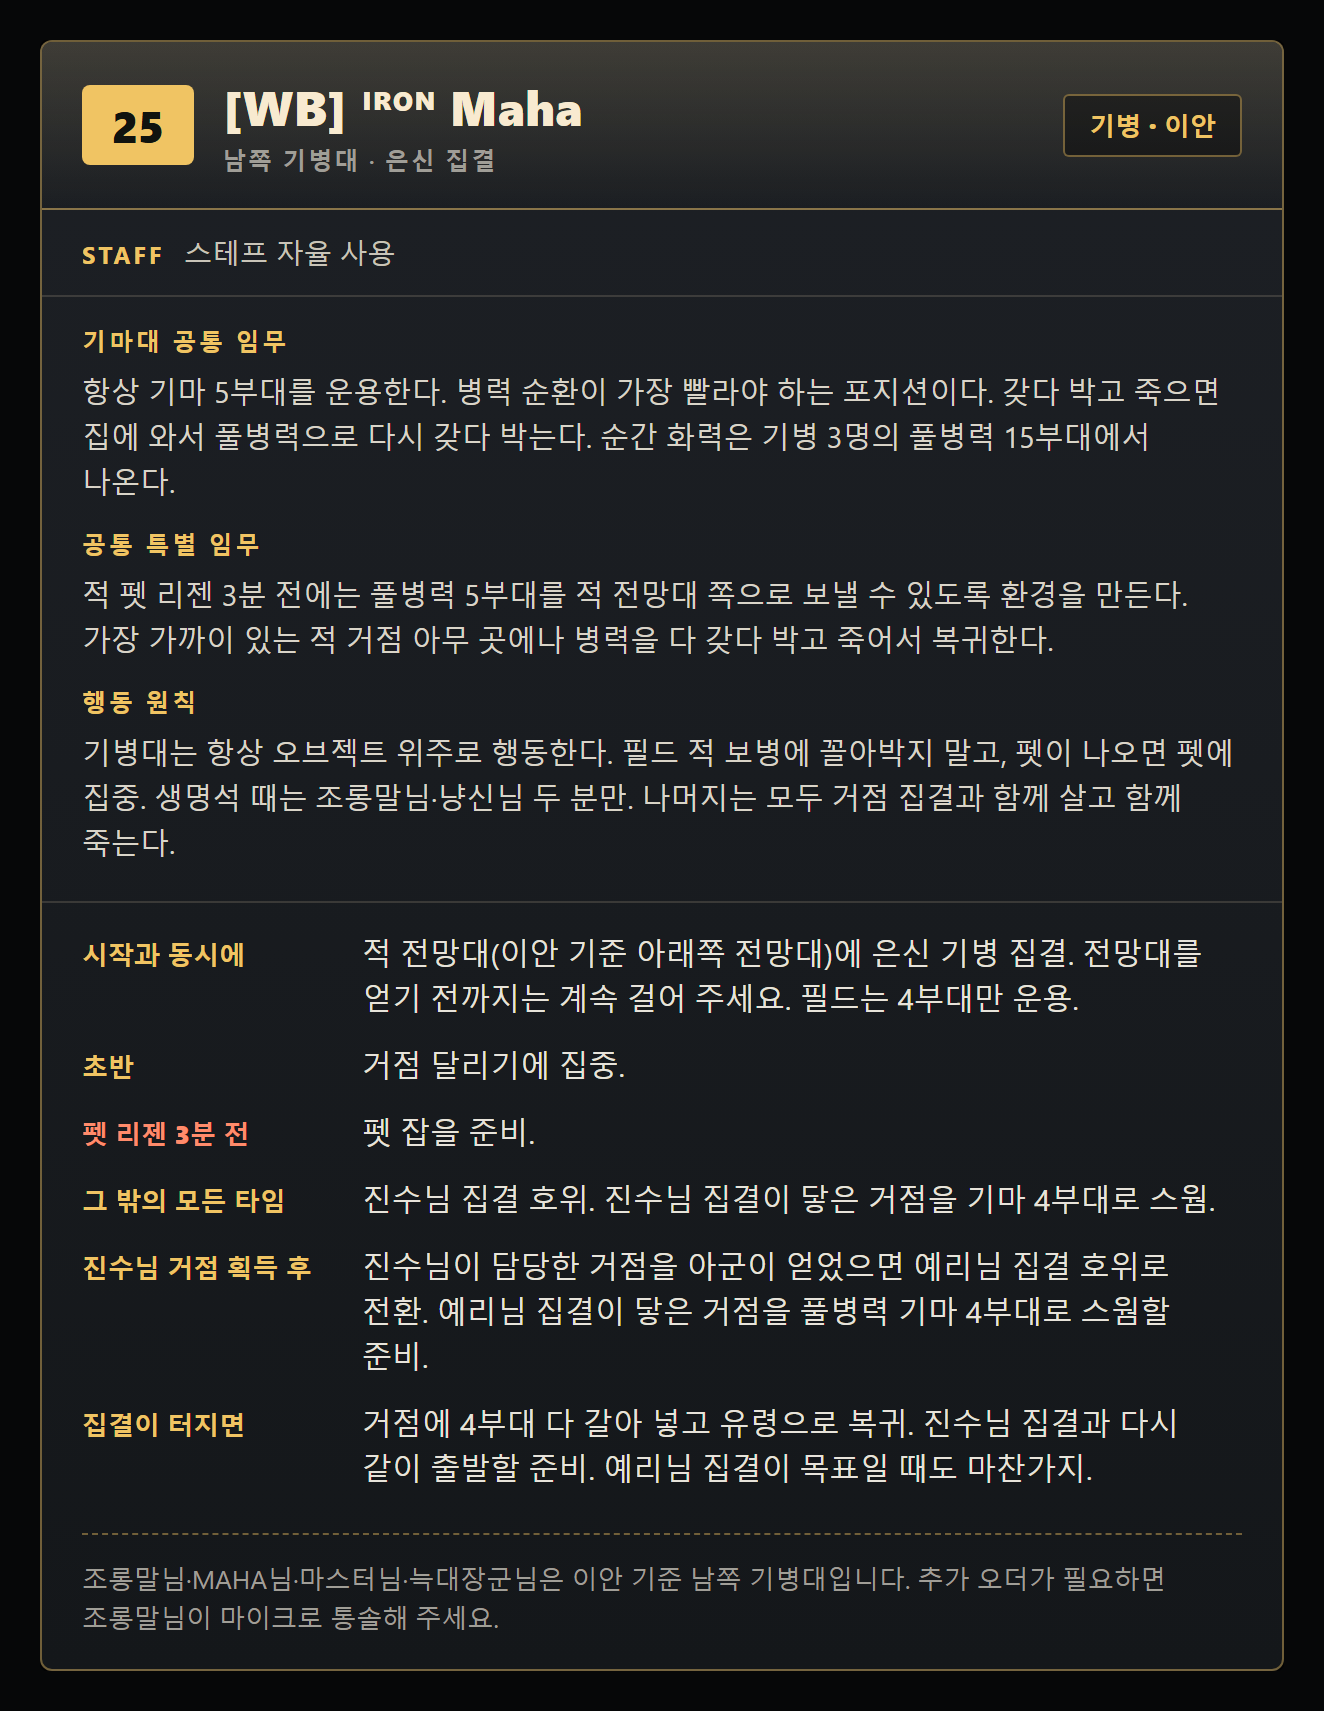
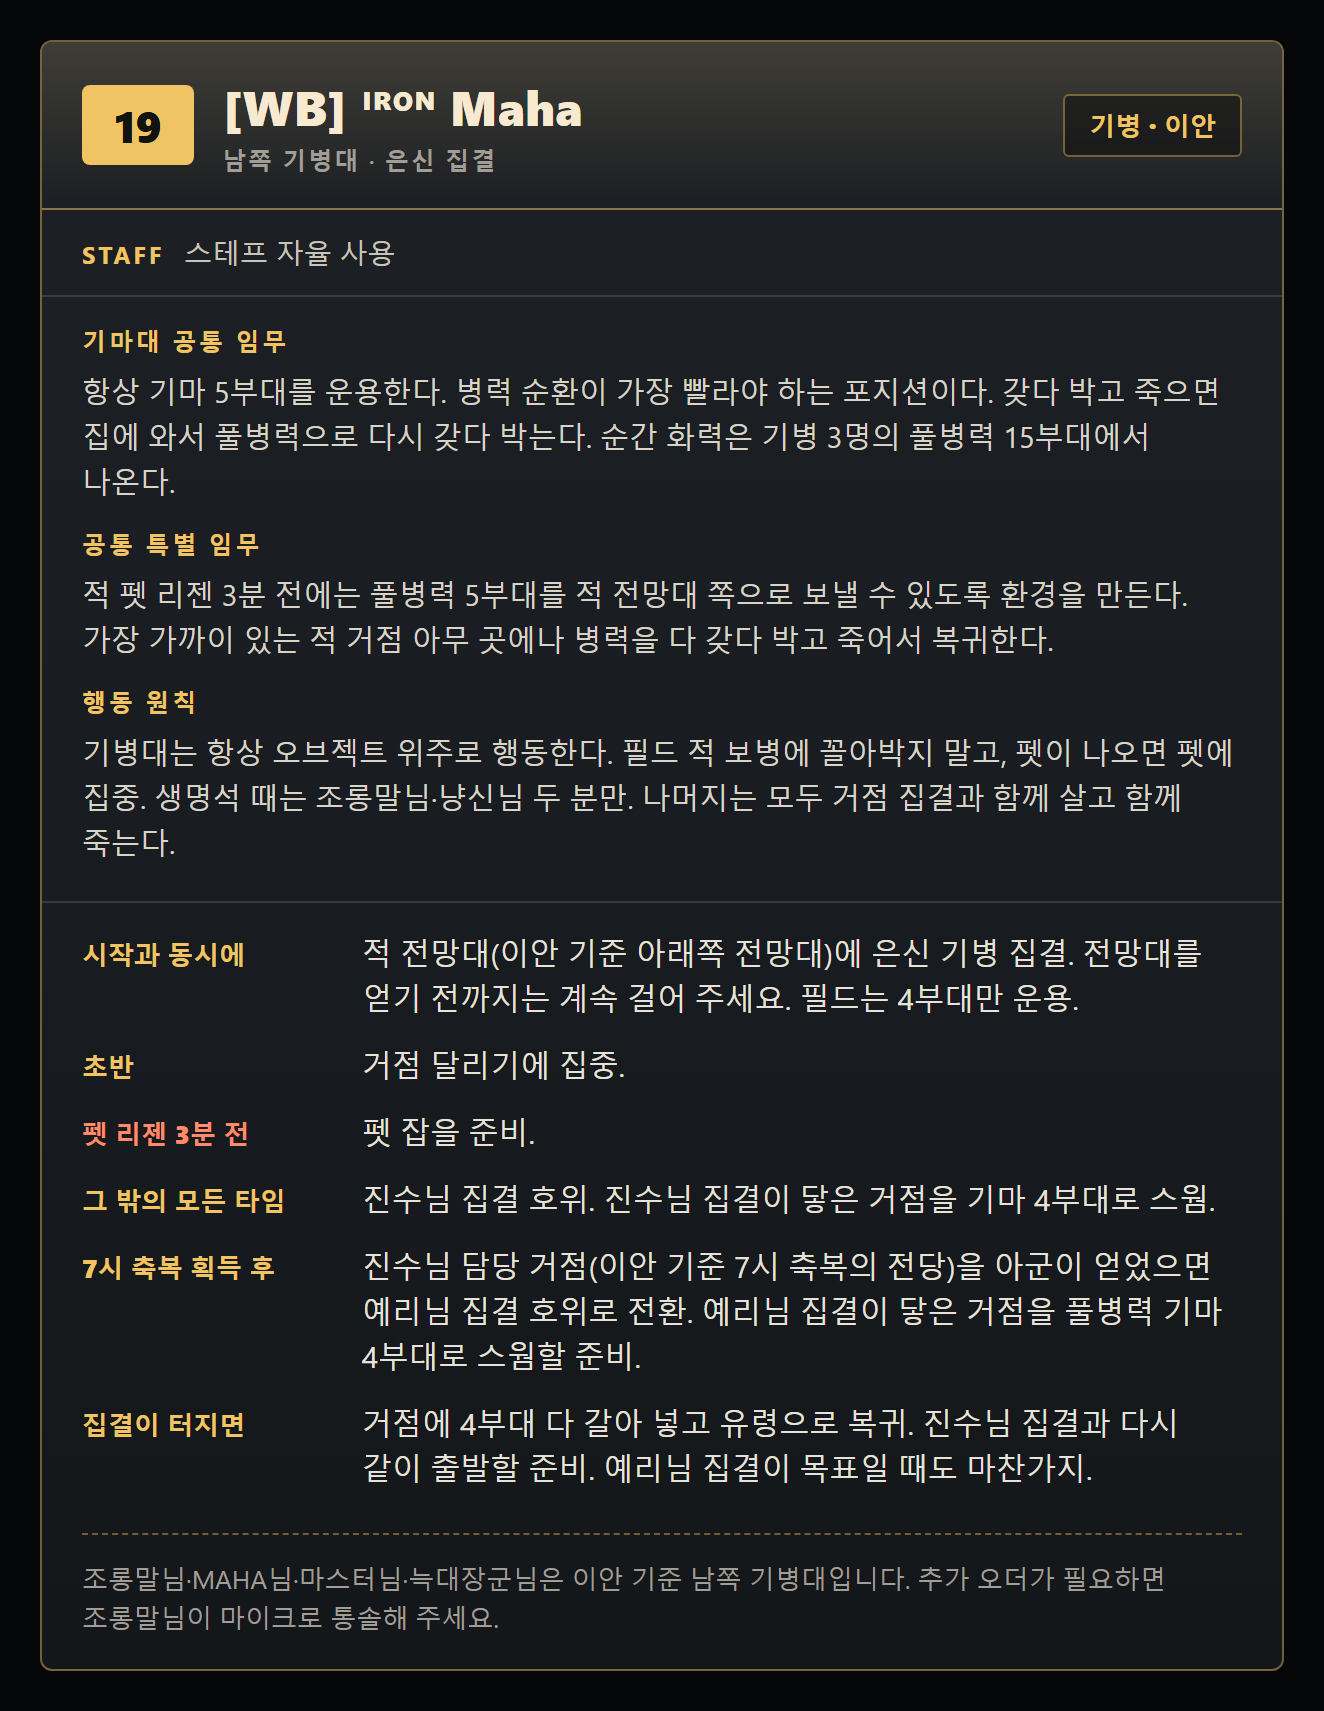
벌꿀오소리를 마법공주간달프로 합치고, 늑대장군을 기병으로, MAHA·산삼맨 번호 맞바꿈
지휘부 확인으로 마법공주간달프가 벌꿀오소리의 새 닉네임임이 밝혀져 로스터·
임무표·집결장 목록의 이름을 바꾸고 따로 추가돼 있던 항목을 지웠다. 브라우저
저장본에는 옛 이름과 새 이름이 둘 다 들어 있으므로 mergePlayers가 RENAMED로
옛 이름을 새 이름으로 옮기고 중복은 버린다(옛 항목의 id·위치·역할이 남는다).

늑대장군은 남쪽 기병대 오더를 받아 기병으로 바꿨다. 게임에서 MAHA와 산삼맨의
자리를 맞바꿔 19·25를 교체했고, 남쪽 기병대 카드 4장은 수정본대로 기준 거점을
"이안 기준 7시 축복의 전당"으로 다시 뽑았다. 테스트 카운트는 40/30/10.

Claude-Session: https://claude.ai/code/session_012q35UrVyhsKMpMXpVxwJuN

Changed region(s): [[0.2787, 0.7124, 0.929, 0.8054], [0.0619, 0.7124, 0.2168, 0.7434], [0.0929, 0.062, 0.1239, 0.0929]]

diff --git a/app/war-table.tsx b/app/war-table.tsx
@@ -31,7 +31,7 @@ const TOOL_META: Array<{ id: Tool; label: string; glyph: string; hint: string }>
   { id: "memo", label: "메모", glyph: "▤", hint: "드래그로 영역을 잡고 메모를 입력" },
   { id: "delete", label: "지우개", glyph: "", hint: "지울 오브젝트를 클릭" },
 ];
-const RALLY_PLAYERS = new Set(["[WB] 진 수", "벌꿀오소리"]);
+const RALLY_PLAYERS = new Set(["[WB] 진 수", "마법공주간달프"]);
 const GARRISON_PLAYERS = new Set(["glen fiddich", "욘 두 Yondu", "[WB] ᴵᴿᴼᴺ TESLA", "예리", "핫떠그", "Junkhun", "압 수"]);
 // 게임 내 전투 위치 번호(2026-09-08 스크린샷). 이안 진영 배치를 기준으로 읽었고 루시아는 정확히 그 거울상이다.
 // 이 30명이 곧 주전이다. 번호가 없는 로스터는 예비.
@@ -39,8 +39,8 @@ const SLOT_SOURCE: Array<[string, number]> = [
   ["무 잔 Muzan", 1], ["마법공주간달프", 2], ["바르니", 3], ["SIGH", 4], ["냥 신 (마스터)", 5],
   ["[WB] ᴵᴿᴼᴺ TESLA", 6], ["TOMAS SHELBY", 13], ["[WB] 구너(마구니)", 8], ["불개", 9], ["glen fiddich", 10],
   ["예리", 11], ["핫떠그", 12], ["오늘은일찍자야지", 7], ["압 수", 14], ["Kingsway", 15],
-  ["욘 두 Yondu", 16], ["[WB] 진 수", 17], ["[WB] ᴵᴿᴼᴺ 조롱말 (HALO)", 18], ["산삼맨", 19], ["[WB] ᴵᴿᴼᴺ 곡곡이", 20],
-  ["벙커", 21], ["파리스", 22], ["서틸로", 23], ["Junkhun", 24], ["[WB] ᴵᴿᴼᴺ Maha", 25],
+  ["욘 두 Yondu", 16], ["[WB] 진 수", 17], ["[WB] ᴵᴿᴼᴺ 조롱말 (HALO)", 18], ["산삼맨", 25], ["[WB] ᴵᴿᴼᴺ 곡곡이", 20],
+  ["벙커", 21], ["파리스", 22], ["서틸로", 23], ["Junkhun", 24], ["[WB] ᴵᴿᴼᴺ Maha", 19],
   ["[WB] ᵂᴮ Elega", 26], ["5000", 27], ["보 수", 28], ["햄찌", 29], ["늑대장군", 30],
 ];
 const SLOT_BY_NICKNAME = new Map(SLOT_SOURCE);
@@ -50,13 +50,13 @@ const PLAYER_SOURCE: Array<[string, PrimaryRole]> = [
   ["마 젤 란(달의금)", "infantry"], ["바르니", "ranged"], ["무 잔 Muzan", "cavalry"], ["파리스", "infantry"],
   ["벙커", "ranged"], ["산삼맨", "infantry"], ["불개", "ranged"], ["[WB] ᴵᴿᴼᴺ 곡곡이", "ranged"],
   ["냥 신 (마스터)", "cavalry"], ["[WB] ᴵᴿᴼᴺ Maha", "cavalry"], ["[WB] 진 수", "infantry"], ["[WB] ᴵᴿᴼᴺ 조롱말 (HALO)", "cavalry"],
-  ["늑대장군", "infantry"], ["핫떠그", "infantry"], ["[WB] ᴵᴿᴼᴺ TESLA", "ranged"], ["오늘은일찍자야지", "cavalry"],
+  ["늑대장군", "cavalry"], ["핫떠그", "infantry"], ["[WB] ᴵᴿᴼᴺ TESLA", "ranged"], ["오늘은일찍자야지", "cavalry"],
   ["대장군 뽀로링", "infantry"], ["서틸로", "infantry"], ["예리", "infantry"], ["Kingsway", "ranged"],
   ["햄찌", "ranged"], ["몽클", "infantry"], ["SIGH", "ranged"], ["[WB] 스누피Tank", "infantry"],
-  ["[WB] 이천상", "ranged"], ["코다마", "infantry"], ["벌꿀오소리", "infantry"],
+  ["[WB] 이천상", "ranged"], ["코다마", "infantry"], ["마법공주간달프", "infantry"],
   ["ᴵᴿᴼᴺ 핫 짱 구", "infantry"], ["THOR", "infantry"], ["알나인티", "infantry"],
-  // 2026-09-08 게임 명단에 새로 보인 3명. 임무표 시트에 아직 없어 간달프·보 수는 보병으로 가정. SHELBY는 북쪽 기병대.
-  ["마법공주간달프", "infantry"], ["TOMAS SHELBY", "cavalry"], ["보 수", "infantry"],
+  // 2026-09-08 게임 명단에 새로 보인 2명. 임무표 시트에 아직 없어 보 수는 보병으로 가정. SHELBY는 북쪽 기병대.
+  ["TOMAS SHELBY", "cavalry"], ["보 수", "infantry"],
 ];
 function defaultCommandRoles(nickname: string): SecondaryRole[] {
   if (RALLY_PLAYERS.has(nickname)) return ["rally"];
@@ -104,7 +104,7 @@ const MISSION_SOURCE: Array<[string, MissionOrders]> = [
   ["5000", ["3시 치료 주유", "1시 천무 획득시 주유", "오소리님 집결 탑승", "필드전투보병 or 긴급 주유", "필드전투보병 or 긴급 주유"]],
   ["파리스", ["3시 치료 주유", "1시 천무 획득시 주유", "오소리님 집결 탑승", "필드전투보병 or 긴급 주유", "필드전투보병 or 긴급 주유"]],
   ["마 젤 란(달의금)", ["3시 치료 주유", "1시 천무 획득시 주유", "오소리님 집결 탑승", "필드전투보병 or 긴급 주유", "필드전투보병 or 긴급 주유"]],
-  ["벌꿀오소리", ["1시 천무 전당 집결장", "필드전투보병 or 긴급 주유", "필드전투보병 or 긴급 주유", "필드전투보병 or 긴급 주유", "필드전투보병 or 긴급 주유"]],
+  ["마법공주간달프", ["1시 천무 전당 집결장", "필드전투보병 or 긴급 주유", "필드전투보병 or 긴급 주유", "필드전투보병 or 긴급 주유", "필드전투보병 or 긴급 주유"]],
 ];
 const MISSION_BY_NICKNAME = new Map(MISSION_SOURCE);
 // 맵을 180도 돌린 관계라 시계 위치와 진영 거점 이름이 짝을 이뤄 바뀐다.
@@ -167,15 +167,23 @@ function freshOperation(): Operation {
 function clone<T>(value: T): T { return JSON.parse(JSON.stringify(value)) as T; }
 function clamp(value: number) { return Math.max(0.025, Math.min(0.975, value)); }
 function uid(prefix: string) { return `${prefix}-${Date.now()}-${Math.random().toString(36).slice(2, 7)}`; }
+// 게임에서 닉네임을 바꾼 사람. 저장본의 옛 이름을 새 이름으로 옮기고, 새 이름으로 이미 붙어 있던 중복 항목은 버린다.
+const RENAMED = new Map([["벌꿀오소리", "마법공주간달프"]]);
 function mergePlayers(saved: Player[]): Player[] {
-  const merged = saved.map((player) => ({
-    ...player,
-    // 주전 여부는 게임 배치 명단이 정한다. 저장본이 옛 명단이어도 현재 번호표로 다시 맞춘다.
-    lineup: SLOT_BY_NICKNAME.has(player.nickname) ? "starter" : "reserve",
-    secondaryRoles: player.secondaryRoles?.length ? player.secondaryRoles : defaultCommandRoles(player.nickname),
-  }));
-  const known = new Set(merged.map((player) => player.nickname));
-  INITIAL_PLAYERS.forEach((player) => { if (!known.has(player.nickname)) merged.push({ ...player }); });
+  const seen = new Set<string>();
+  const merged = saved.flatMap((player): Player[] => {
+    const nickname = RENAMED.get(player.nickname) ?? player.nickname;
+    if (seen.has(nickname)) return [];
+    seen.add(nickname);
+    return [{
+      ...player,
+      nickname,
+      // 주전 여부는 게임 배치 명단이 정한다. 저장본이 옛 명단이어도 현재 번호표로 다시 맞춘다.
+      lineup: SLOT_BY_NICKNAME.has(nickname) ? "starter" : "reserve",
+      secondaryRoles: player.secondaryRoles?.length ? player.secondaryRoles : defaultCommandRoles(nickname),
+    }];
+  });
+  INITIAL_PLAYERS.forEach((player) => { if (!seen.has(player.nickname)) merged.push({ ...player }); });
   return merged;
 }
 function normalizeScene(item: Scene, index: number): Scene {

diff --git a/harness/FEATURES.md b/harness/FEATURES.md
@@ -1,6 +1,6 @@
 # 작업 단위 목록 — Heinapel War Table
 
-프로젝트: 헤이나펄 리그 2기 30인(로스터 41인) 전략회의용 디지털 작전판.
+프로젝트: 헤이나펄 리그 2기 30인(로스터 40인) 전략회의용 디지털 작전판.
 vinext(Next 호환) + React 19 + Cloudflare Workers 배포 형태. 소스는 `app/war-table.tsx`
 단일 컴포넌트 중심, 상태는 `localStorage`(`heinapel-war-table-v0.3`)에 저장.
 
@@ -12,8 +12,8 @@ vinext(Next 호환) + React 19 + Cloudflare Workers 배포 형태. 소스는 `ap
 
 ## 완료된 단위 (커밋 이력·테스트로 확인)
 
-- [x] 플레이어 로스터 41인 표시, 주전 30·예비 11 배지(주전 = 전투 위치 번호 보유자), 역할 집계 타일 4종
-  - 검증: `npm test` — player-row 41개, lineup-badge starter 30·reserve 11 카운트 검증 통과
+- [x] 플레이어 로스터 40인 표시, 주전 30·예비 10 배지(주전 = 전투 위치 번호 보유자), 역할 집계 타일 4종
+  - 검증: `npm test` — player-row 40개, lineup-badge starter 30·reserve 10 카운트 검증 통과
 - [x] 전술 맵·실전 맵 2종 배경과 점령 목표 12개(전망대 4 포함) 표시
   - 검증: `npm test` — capture-objective 12개, 맵 이미지 파일 존재 검증 통과
 - [x] 5인 진군 명령(marching orders)과 미션 카드의 부대 목적지 맵 표시

diff --git a/harness/PROGRESS.md b/harness/PROGRESS.md
@@ -10,6 +10,7 @@
 
 ## 마지막으로 한 일
 
+- 벌꿀오소리 = 마법공주간달프(닉네임 변경)로 확인돼 로스터를 하나로 합침. `mergePlayers`의 RENAMED가 저장본의 옛 이름을 옮긴다. 늑대장군은 남쪽 기병대라 기병으로. MAHA 19·산삼맨 25로 맞바꿈.
 - 임무카드 PNG 14장(북쪽 기병대 3·남쪽 기병대 4·전망대 팀 3·집결장 팀 4)을 `cards/build.mjs`로 생성(Chrome headless + sharp). 카드 문안은 스크립트 안의 CARDS. 앱의 MISSION_SOURCE에는 아직 반영하지 않음. TOMAS SHELBY 병종을 기병으로 바꾸고 임무표에 기병대 5부대 행 추가.
 - 전투 위치 번호 재배치(2026-09-08). 신규 3명(마법공주간달프·TOMAS SHELBY·보 수)은 임무표 시트에 없어 병종을 보병으로 가정해 넣음 — 시트가 갱신되면 `PLAYER_SOURCE`·`MISSION_SOURCE` 재확인 필요. 벌꿀오소리·최산수·마 젤 란·대장군 뽀로링은 번호가 빠져 예비로 내려감(임무표의 "오소리님 집결 탑승"은 그대로라 시트 갱신 시 함께 볼 것).
 - 저장본(localStorage)의 주전/예비는 로드 때 현재 번호표로 다시 계산한다. UI의 주전/예비 토글은 세션 안에서만 유지됨.
